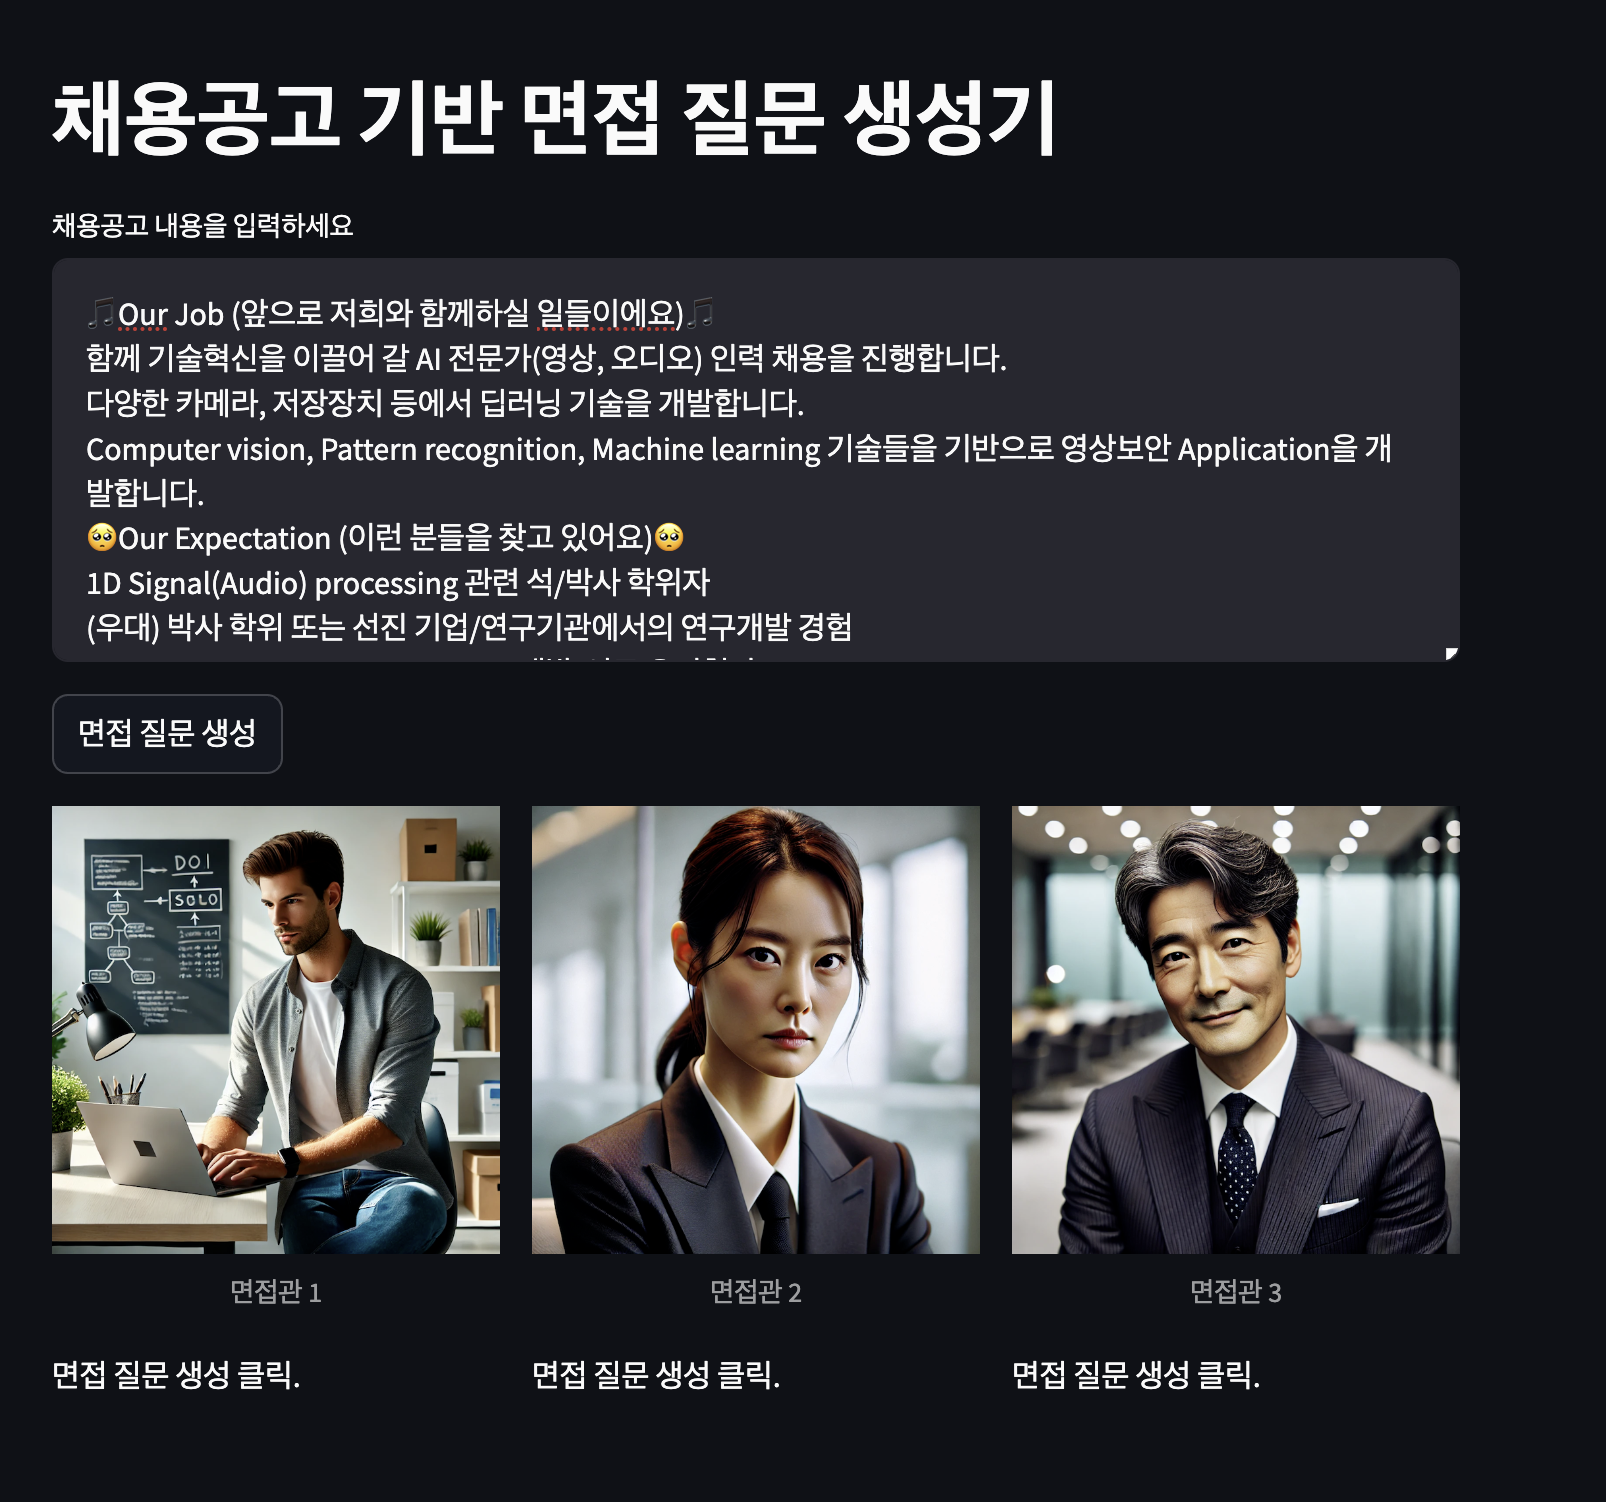
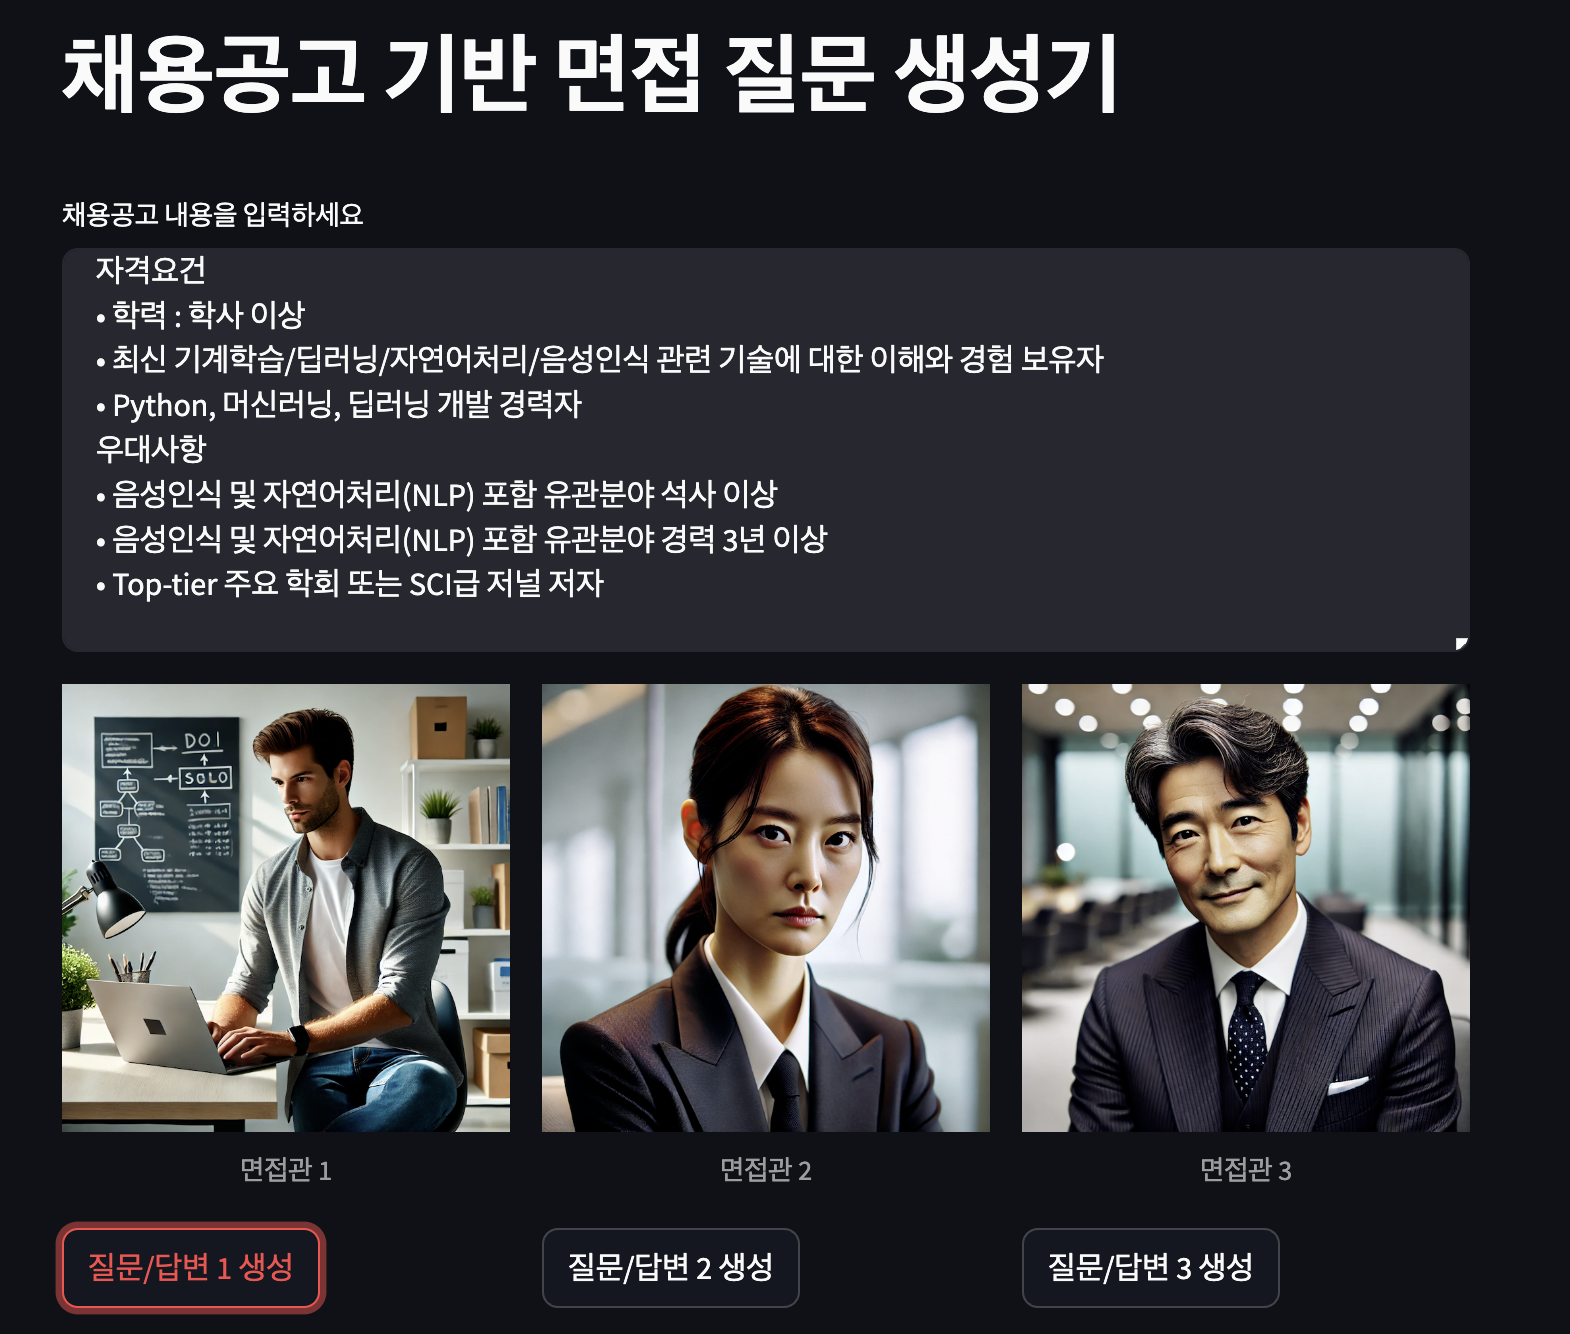
[ADD] FastAPI server & Streamlit

diff --git a/backend/services/interview_service.py b/backend/services/interview_service.py
@@ -1,0 +1,119 @@
+import os
+
+import torch
+from transformers import AutoModelForCausalLM, AutoTokenizer, BitsAndBytesConfig
+from peft import PeftModel, PeftConfig
+from schemas.job_post import JobPost, InterviewResponse
+
+class InterviewService:
+    def __init__(self):
+        self.device = torch.device('cuda' if torch.cuda.is_available() else 'cpu')
+        self.model_paths = self.get_model_paths()
+
+        self.bnb_config = BitsAndBytesConfig(
+            load_in_4bit=True,
+            bnb_4bit_use_double_quant=True,
+            bnb_4bit_quant_type="nf4",
+            bnb_4bit_compute_dtype=torch.bfloat16
+        )
+        
+    def get_model_paths(self):
+        base_path = os.path.abspath(os.path.dirname(__file__))
+        return {
+            'question': [
+                os.path.join(base_path, 'model_path', 'question', 'make_all_question'),
+                os.path.join(base_path, 'model_path', 'question', 'make_develope_question'),
+                os.path.join(base_path, 'model_path', 'question', 'make_normal_question'),
+            ],
+            'answer': [
+                os.path.join(base_path, 'model_path', 'answer', 'make_all_answer'),
+                os.path.join(base_path, 'model_path', 'answer', 'make_develope_answer'),
+                os.path.join(base_path, 'model_path', 'answer', 'make_normal_answer'),
+            ]
+        }
+    
+    def load_model(self, path):
+        config = PeftConfig.from_pretrained(path)
+
+        model = AutoModelForCausalLM.from_pretrained(
+            config.base_model_name_or_path,
+            quantization_config=self.bnb_config,
+            attn_implementation="eager",
+            device_map='cuda',
+            torch_dtype='float16',
+        )
+
+        model = PeftModel.from_pretrained(model, path)
+        model.eval()
+
+        tokenizer = AutoTokenizer.from_pretrained(config.base_model_name_or_path)
+        if tokenizer.pad_token is None:
+            tokenizer.pad_token = tokenizer.eos_token
+
+        return model, tokenizer
+    
+    def generate_text(self, input_text, model, tokenizer):
+        model.to(self.device)
+        input_ids = tokenizer(input_text, return_tensors='pt').input_ids.to(self.device)
+        with torch.no_grad():
+            outputs = model.generate(
+                input_ids,
+                max_new_tokens=1024,
+                num_return_sequences=1,
+                do_sample=True,
+                num_beams=2,
+                top_p=0.95,
+                repetition_penalty=1.2,
+                temperature=0.5,
+                early_stopping=True,
+            )
+        return_text = tokenizer.batch_decode(outputs, skip_special_tokens=True)[0]
+
+        if "model##" in return_text:
+            return return_text.split("model##", 1)[1].strip()
+        else:
+            return return_text.strip()
+    
+    def generate_interview_qa(self, job_post: JobPost, model_index: int) -> InterviewResponse:
+        question_prompt = """<bos><start_of_turn>user
+        당신은 다양한 IT 분야의 전문성을 갖춘 채용 담당자입니다.
+        주어진 채용 공고를 바탕으로 가장 핵심적이고 적절한 면접 질문 하나를 생성해야 합니다.
+        지원자의 문제 해결 능력과 창의성을 평가할 수 있는 질문을 만들어주세요.
+
+        - 복합적인 질문이 아닌, 주제를 관통하는 하나의 질문을 생성해주세요.
+        채용공고 내용: 
+        {input_text}<end_of_turn>
+        <start_of_turn>model##
+        """
+
+        answer_prompt = """<bos><start_of_turn>user
+        당신은 대규모 IT 프로젝트를 이끄는 시니어 개발 책임자입니다.
+        주어진 채용 공고를 바탕으로 가장 핵심적이고 적절한 면접 답변 하나를 생성해야 합니다.
+        지원자의 문제 해결 능력과 창의성을 평가할 수 있는 답변을 만들어주세요.
+        채용공고 내용: 
+        {input_text}
+        
+        질문: {question_text}<end_of_turn>
+        <start_of_turn>model##
+        """
+
+        try: 
+            question_model, question_tokenizer = self.load_model(self.model_paths['question'][model_index])
+
+            question = self.generate_text(
+                question_prompt.format(input_text=job_post.content),
+                question_model,
+                question_tokenizer
+            )
+
+            answer_model, answer_tokenizer = self.load_model(self.model_paths['answer'][model_index])
+        
+            answer = self.generate_text(
+                answer_prompt.format(input_text=job_post.content, question_text=question),
+                answer_model,
+                answer_tokenizer
+            )
+
+            return InterviewResponse(question=question, answer=answer)
+        finally:
+            torch.cuda.empty_cache() # CUDA 캐시 정리

diff --git a/frontend/app.py b/frontend/app.py
@@ -1,0 +1,56 @@
+import streamlit as st
+import requests
+
+st.title("채용공고 기반 면접 질문 생성기")
+
+# CSS를 사용하여 스크롤 가능한 텍스트 영역 스타일 정의
+st.markdown("""
+<style>
+.scrollable-text {
+    height: 150px;
+    overflow-y: auto;
+    border: 1px solid #444;
+    padding: 10px;
+    background-color: #1e1e1e;
+    color: #ffffff;
+    margin-bottom: 30px;  # 아래쪽 여백을 30px로 증가
+}
+.scrollable-text strong {
+    color: #4da6ff;
+}
+.question-box {
+    margin-bottom: 40px;  # 질문 박스 아래에 40px의 여백 추가
+}
+</style>
+""", unsafe_allow_html=True)
+
+job_post = st.text_area("채용공고 내용을 입력하세요", height=200)
+
+# 세션 상태 초기화
+if 'interviews' not in st.session_state:
+    st.session_state.interviews = [{"question": "", "answer": ""} for _ in range(3)]
+
+col1, col2, col3 = st.columns(3)
+
+for i, col in enumerate([col1, col2, col3], start=1):
+    with col:
+        st.image(f"frontend/assets/question_image{i}.png", caption=f"면접관 {i}")
+        
+        if st.button(f"질문/답변 {i} 생성"):
+            response = requests.post(f"http://localhost:8000/generate_interview/{i-1}", json={"content": job_post})
+            if response.status_code == 200:
+                data = response.json()
+                st.session_state.interviews[i-1] = {
+                    "question": data["question"],
+                    "answer": data["answer"]
+                }
+            else:
+                st.error("오류가 발생했습니다. 다시 시도해주세요.")
+
+        # 질문 표시
+        if st.session_state.interviews[i-1]["question"]:
+            st.markdown(f"<div class='scrollable-text question-box'><strong>질문:</strong><br>{st.session_state.interviews[i-1]['question']}</div>", unsafe_allow_html=True)
+        
+        # 답변 표시
+        if st.session_state.interviews[i-1]["answer"]:
+            st.markdown(f"<div class='scrollable-text'><strong>답변:</strong><br>{st.session_state.interviews[i-1]['answer']}</div>", unsafe_allow_html=True)

diff --git a/backend/api/routes.py b/backend/api/routes.py
@@ -1,0 +1,9 @@
+from fastapi import APIRouter, Depends
+from schemas.job_post import JobPost, InterviewResponse
+from services.interview_service import InterviewService
+
+router = APIRouter()
+
+@router.post("/generate_interview/{model_index}", response_model=InterviewResponse)
+async def generate_interview(model_index: int, job_post: JobPost, service: InterviewService=Depends(InterviewService)):
+    return service.generate_interview_qa(job_post, model_index)

diff --git a/backend/main.py b/backend/main.py
@@ -1,0 +1,10 @@
+from fastapi import FastAPI
+from api.routes import router
+
+app = FastAPI()
+
+app.include_router(router)
+
+if __name__ == "__main__":
+    import uvicorn
+    uvicorn.run("main:app", host="0.0.0.0", port=8000, reload=True)

diff --git a/backend/schemas/job_post.py b/backend/schemas/job_post.py
@@ -1,0 +1,8 @@
+from pydantic import BaseModel
+
+class JobPost(BaseModel):
+    content: str
+
+class InterviewResponse(BaseModel):
+    question: str
+    answer: str

diff --git a/README.md b/README.md
@@ -12,7 +12,7 @@
 
 ## 사용 방법
 
-<p>1. 개발자 채용공고 내용을 입력 창에 붙여넣고 '면접 질문 생성' 버튼을 클릭합니다.</p>
+<p>1. 개발자 채용공고 내용을 입력 창에 붙여넣고 '각 질문/답변 생성' 버튼을 클릭합니다.</p>
 
 <div align="center">
     <img src="images/basic_image.png" alt="기본 화면 이미지" width="500"/>
@@ -26,8 +26,5 @@
 
 ## 테스트
 
-다음 URL에서 AI 면접 질문 생성기를 직접 테스트해보실 수 있습니다: url
-
-## 라이선스
-
+다음 URL에서 AI 면접 질문 생성기를 직접 테스트해보실 수 있습니다: 도메인 등록 후 공개 예정
 ...
